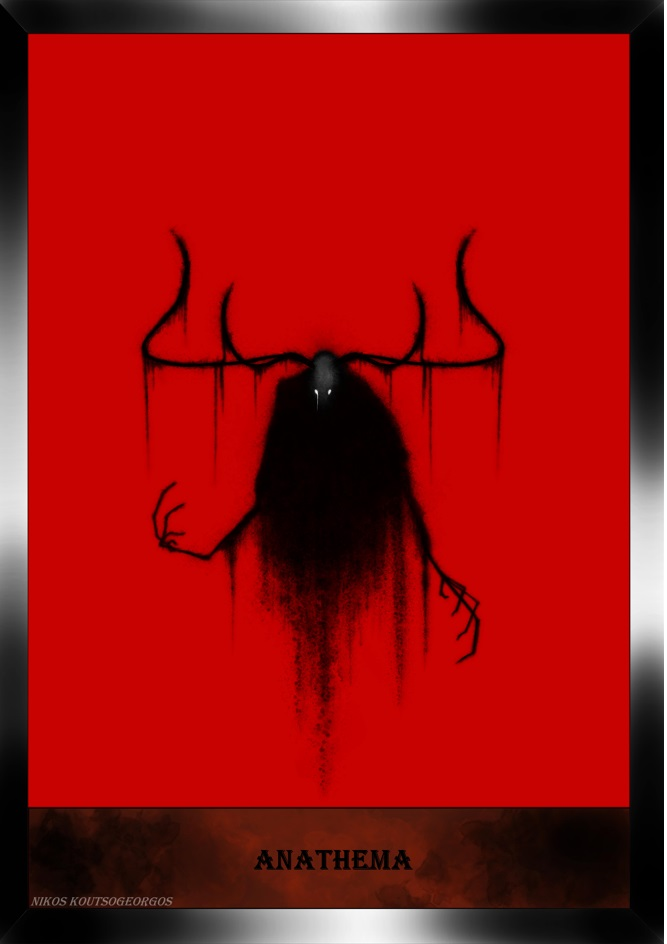
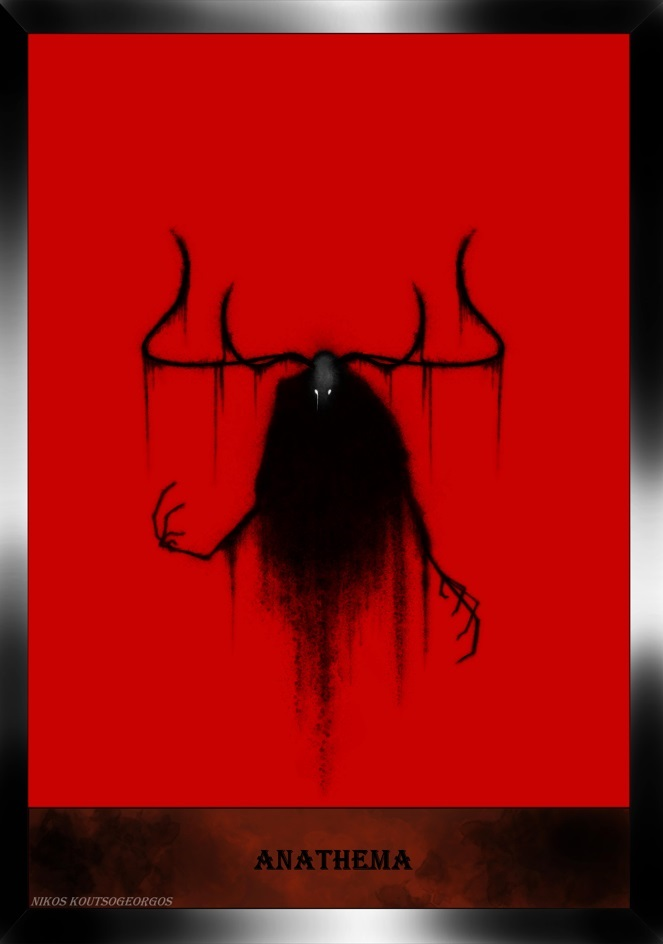
found out why there was a white border on 2 cards. I had cropped the images poorly.

diff --git a/index.html b/index.html
@@ -41,7 +41,12 @@
                 <br><br>
                 Pick a card and find out the story behind it. 
             </p>
+        </div>
             <div class="image-gallery">
+                <div class="image-container">
+                    <img src="images/anathema.jpg" alt="Anathema" loading="lazy">
+                    <div class="overlay"></div>
+                </div>
                 <div class="image-container">
                         <img src="images/the_sun.jpg" alt="The Sun" loading="lazy">
                         <div class="overlay"></div>
@@ -86,10 +91,7 @@
                     <img src="images/cherubimon.jpg" alt="Benevolence" loading="lazy">
                     <div class="overlay"></div>
                 </div>
-                <div class="image-container">
-                    <img src="images/anathema.jpg" alt="Anathema" loading="lazy">
-                    <div class="overlay"></div>
-                </div>
+
                 <div class="image-container">
                     <img src="images/mayura.jpg" alt="Mayura" loading="lazy">
                     <div class="overlay"></div>
@@ -147,7 +149,6 @@
                     <div class="overlay"></div>
                 </div>
             </div>
-        </div>
         </section>
     </main>
     <script src="script.js"></script>

diff --git a/css/style.css b/css/style.css
@@ -142,9 +142,10 @@ style {
     flex-wrap: wrap;
     justify-content: center;
     align-items: flex-start;
-    gap: 30px;
+    gap: 20px;
     width: 100%;
     height: auto;
+    box-sizing: border-box;
 }
 
 .image-gallery .image-container {
@@ -154,21 +155,21 @@ style {
     margin: 0;
     padding: 0;
     overflow: hidden;
-
     border-radius: 2px;
-    box-sizing: border-box; 
-    transition: transform 0.5s ease; 
+    box-sizing: border-box;
+    transition: transform 0.5s ease;
 }
 
 
 .image-gallery img {
     width: 100%;
-    height: 100%;  /* Optional: Scale the image to cover the container */
+    height: 100%;
     object-fit: cover;  /* Scale the image to cover the container */
-
     object-position: center;
-    border: 1px solid rgba(255, 242, 172, 0.589);
+    /* border: 1px solid rgba(255, 242, 172, 0.589); */
     box-sizing: border-box;
+    box-shadow: 0px 2px 6px rgba(0, 0, 0, 1);
+    
 }
 
 /* .image-gallery img.loaded {
@@ -190,7 +191,7 @@ style {
     opacity: 1;
     transition: opacity 0.3s ease-in-out;
     border-radius: 5px;
-    box-shadow: 0px 4px 16px rgba(0, 0, 0, 1);
+    box-shadow: 0px 2px 6px rgba(0, 0, 0, 1);
     z-index: 2;
 }
  /* Manual card reveal with minor scaling of the card */
